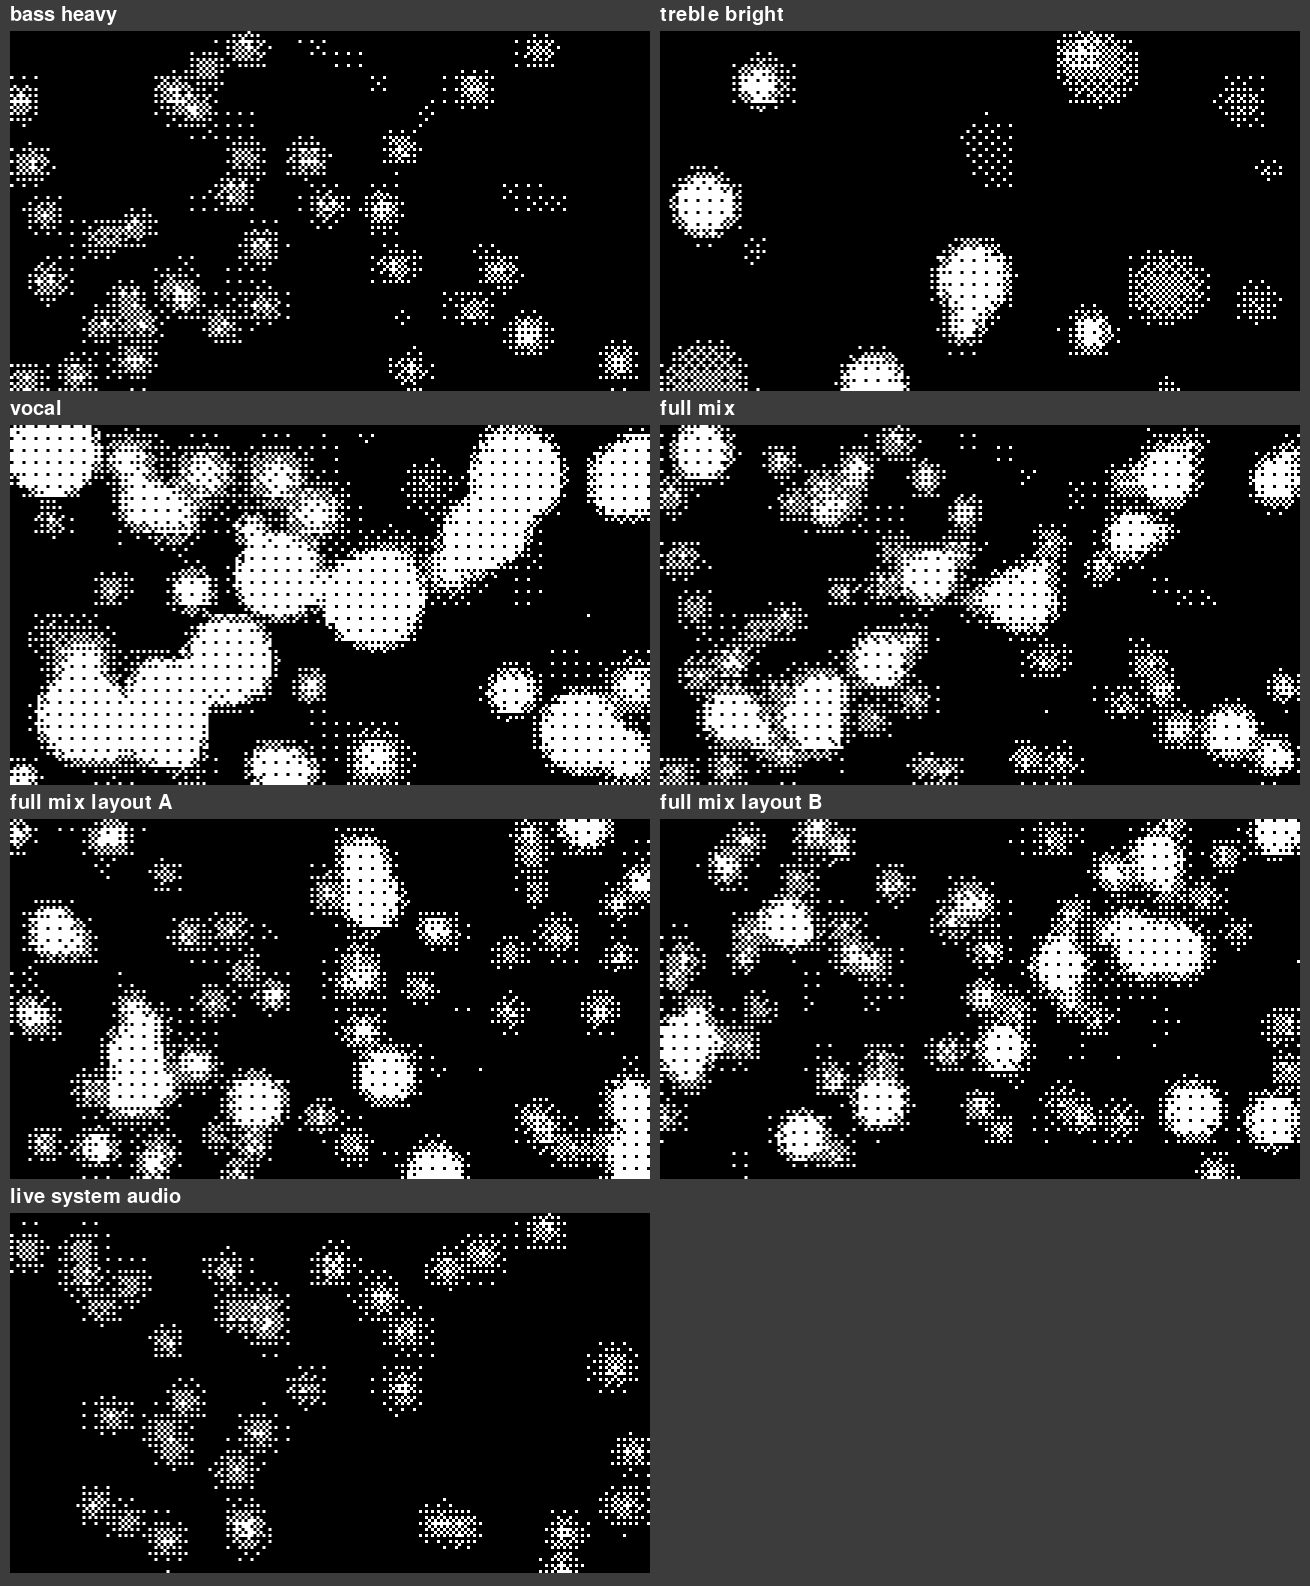
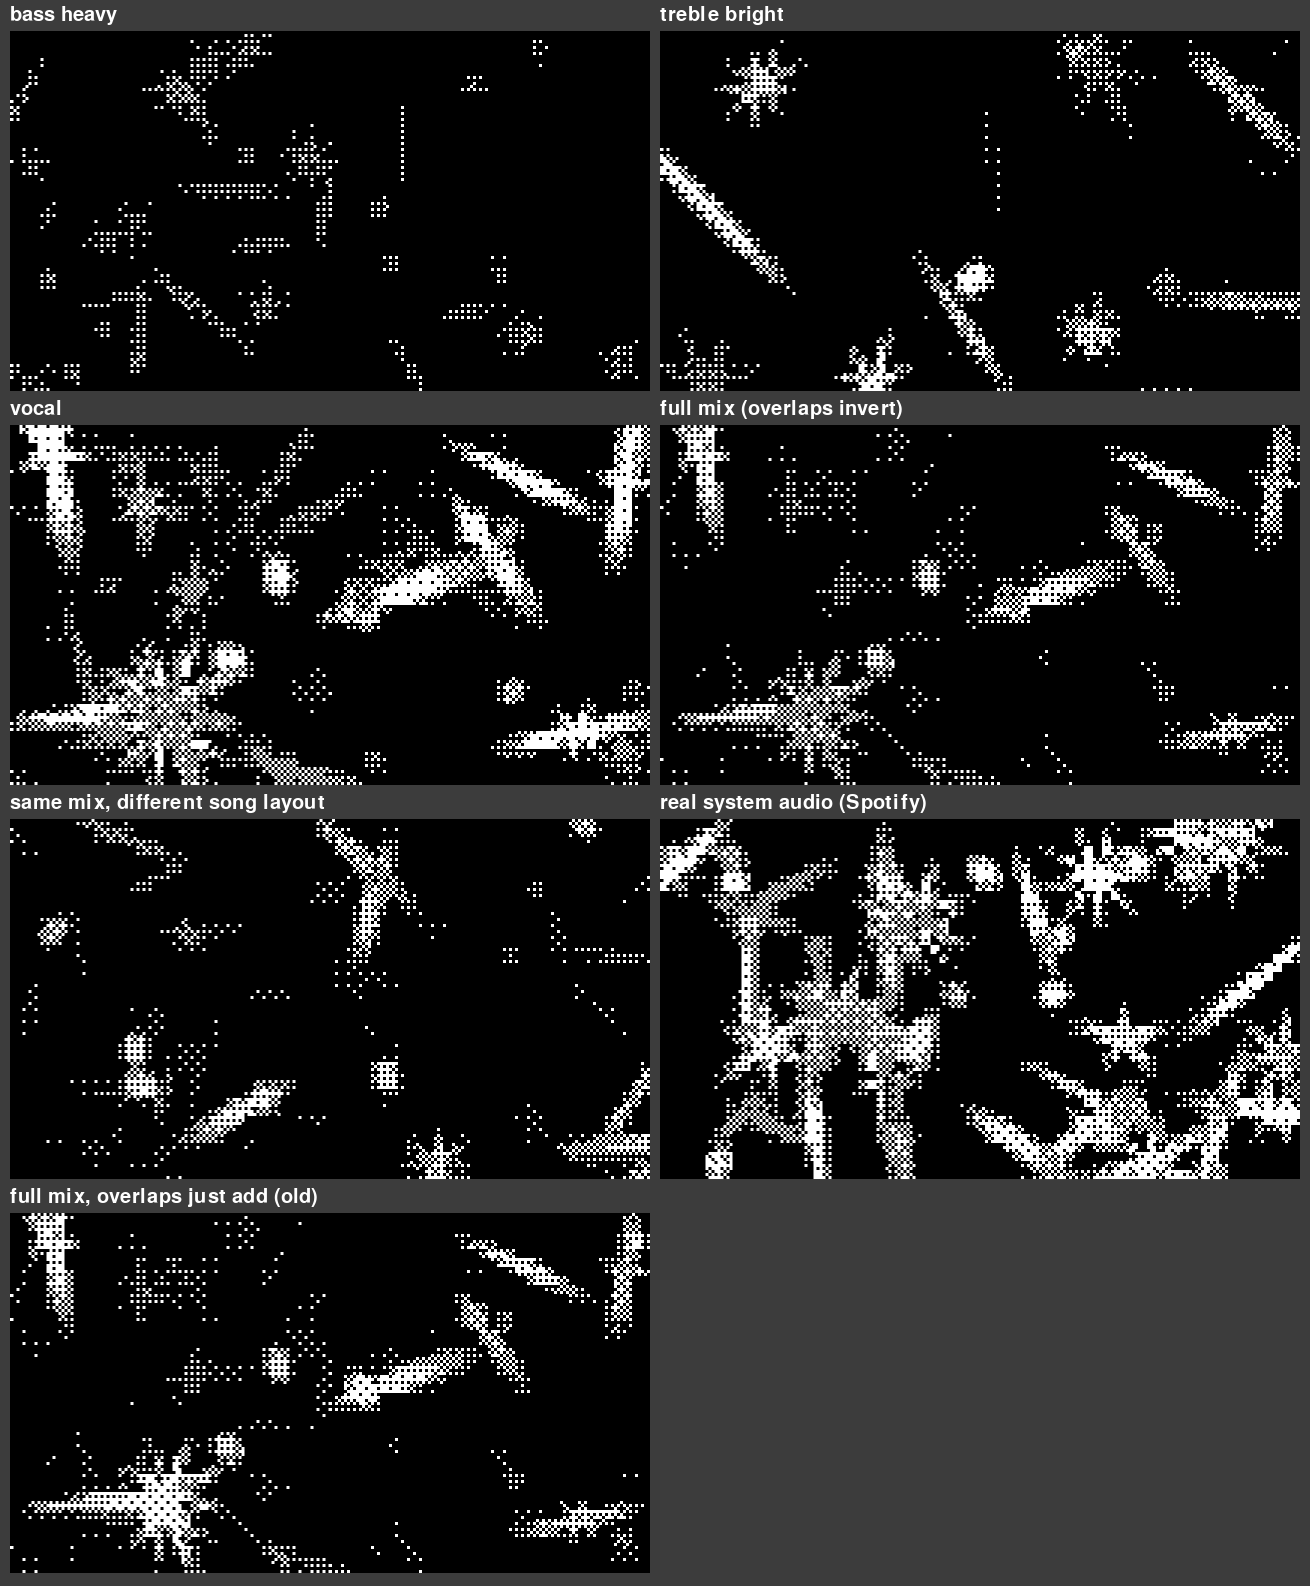
Varied shapes (blobs, spikes, strings) with inverting overlaps
Each spot gets its own shape - round blob, spiky star, long string or stretched hybrid - with its own angle and slow spin; louder means bigger and spikier. Overlapping shapes XOR within a frame so crossings show as a negative rather than a brighter gray; the fading trail is kept separate so a held note doesn't strobe. Density is tuned against real system audio: adaptive contrast gate, capped active shapes, shape size scale, float32 kernels (about 4-6 ms per frame).

diff --git a/src/visualizer/spectral_field.py b/src/visualizer/spectral_field.py
@@ -1,8 +1,12 @@
-"""The core visual mechanism: every tracked frequency bin owns a few *random*
+"""The core visual mechanism: every tracked frequency bin owns a few *random*
 spots on the canvas. A spot only lights up when its frequency actually has
 energy, so which spots glow -- and how big they get -- is a direct trace of the
 music. Nothing is laid out in frequency order: neighbouring frequencies land in
 unrelated places, so there is no left-to-right sweep, no spiral, no symmetry.
+
+Each spot also has its own shape (blob, spiky star, long string, or a stretched
+spiky hybrid) and slowly spins. Within a frame, overlapping shapes XOR -- they
+invert each other instead of just getting brighter.
 
 To keep it alive rather than static:
 
@@ -41,10 +45,16 @@ class SpectralField:
         spots_per_bin: int = 3,
         drift: float = 0.03,
         contrast: float = 0.5,
+        invert: float = 0.85,
+        max_active: int = 36,
+        size: float = 0.65,
         seed: int | None = None,
     ) -> None:
         self.num_bins = num_bins
         self.contrast = contrast
+        self.invert = invert  # 0 = overlaps just add, 1 = overlaps fully invert
+        self.max_active = max_active
+        self.size = size  # overall shape scale
         self.persistence = persistence
         self.drift = drift
         self._rng = np.random.default_rng(seed)
@@ -59,10 +69,35 @@ class SpectralField:
         # each spot drifts on its own slow, smooth loop
         self._drift_rate = self._rng.uniform(0.004, 0.016, (self._spots, 2)).astype(np.float32)
         self._drift_phase = self._rng.uniform(0, 2 * np.pi, (self._spots, 2)).astype(np.float32)
+        self._new_shapes()
 
         self.resize(cluster_w, cluster_h)
 
     # -- layout ---------------------------------------------------------------
+
+    def _new_shapes(self) -> None:
+        """Give every spot its own shape: round blob, spiky star, long string, or
+        a stretched spiky hybrid -- each with its own angle and slow spin."""
+        rng, n = self._rng, self._spots
+        kind = rng.choice(4, size=n, p=[0.28, 0.28, 0.26, 0.18])
+        self._kind = kind
+        self._elong = np.select(
+            [kind == 0, kind == 1, kind == 2],
+            [rng.uniform(1.0, 1.3, n), rng.uniform(1.0, 1.4, n), rng.uniform(2.6, 5.0, n)],
+            rng.uniform(1.8, 3.0, n),
+        ).astype(np.float32)
+        self._spikes = np.select(
+            [kind == 0, kind == 1, kind == 2],
+            [np.zeros(n), rng.integers(5, 11, n), rng.integers(0, 3, n)],
+            rng.integers(3, 7, n),
+        ).astype(np.int32)
+        self._depth = np.select(
+            [kind == 0, kind == 1, kind == 2],
+            [np.zeros(n), rng.uniform(1.3, 2.4, n), rng.uniform(0.2, 0.5, n)],
+            rng.uniform(0.8, 1.5, n),
+        ).astype(np.float32)
+        self._angle = rng.uniform(0, np.pi, n).astype(np.float32)
+        self._spin = rng.uniform(-0.012, 0.012, n).astype(np.float32)
 
     def _new_owner(self) -> np.ndarray:
         owner = np.repeat(np.arange(self.num_bins), self._spots_per_bin)
@@ -74,6 +109,7 @@ class SpectralField:
         self._target = _scatter(self._rng, self._spots)
         self._owner = self._new_owner()
         self._drift_phase = self._rng.uniform(0, 2 * np.pi, (self._spots, 2)).astype(np.float32)
+        self._new_shapes()
 
     def resize(self, cluster_w: int, cluster_h: int) -> None:
         self.cluster_w = cluster_w
@@ -91,16 +127,21 @@ class SpectralField:
     def update(self, band_levels: np.ndarray) -> np.ndarray:
         self._frame += 1
         self._pos += (self._target - self._pos) * 0.04  # glide toward the current layout
-        self.buffer *= self.persistence
 
         band_levels = self._shape(band_levels)
         levels = band_levels[self._owner] * self._weight
         xy = self.positions()
         unit = max(1.0, min(self.cluster_w, self.cluster_h) / 22.0)
-        for i in np.nonzero(levels > 0.05)[0]:
+        layer = np.zeros_like(self.buffer)  # this frame's shapes; overlaps invert inside it
+        active = np.nonzero(levels > 0.05)[0]
+        if len(active) > self.max_active:  # keep the strongest; bounds the per-frame cost
+            active = active[np.argsort(levels[active])[-self.max_active:]]
+        for i in active:
             level = float(levels[i])
-            self._splat(xy[i, 0], xy[i, 1], unit * (0.9 + 2.6 * level), level)
-        np.clip(self.buffer, 0.0, 1.0, out=self.buffer)
+            self._splat(layer, i, xy[i, 0], xy[i, 1], unit * self.size * (0.8 + 1.5 * level), level)
+        np.clip(layer, 0.0, 1.0, out=layer)
+        # the glow trail fades on its own; it is not XORed, or a held note would strobe
+        np.maximum(self.buffer * self.persistence, layer, out=self.buffer)
         return self.buffer
 
     def _shape(self, band_levels: np.ndarray) -> np.ndarray:
@@ -112,20 +153,42 @@ class SpectralField:
         ref = self._peak_ref
         if ref < 0.03:
             return band_levels * 0.0
-        gate = self.contrast * ref
+        # dense music has most bins near the peak: tighten the gate as it gets denser
+        crowded = float((band_levels > 0.5 * ref).mean())
+        gate = min(0.85, self.contrast + 1.0 * max(0.0, crowded - 0.2)) * ref
         shaped = np.clip((band_levels - gate) / max(ref - gate, 1e-6), 0.0, 1.0)
         return shaped * min(1.0, ref / 0.2)
 
-    def _splat(self, cx: float, cy: float, radius: float, level: float) -> None:
-        x0, x1 = max(0, int(cx - radius)), min(self.cluster_w, int(cx + radius) + 1)
-        y0, y1 = max(0, int(cy - radius)), min(self.cluster_h, int(cy + radius) + 1)
+    def _splat(self, layer: np.ndarray, i: int, cx: float, cy: float, radius: float, level: float) -> None:
+        """Draws spot i's shape into this frame's fresh layer. Overlaps XOR
+        (a + b - 2ab), so where two shapes cross the pixels invert instead of
+        just getting brighter."""
+        elong = float(self._elong[i])
+        depth = float(self._depth[i]) * (0.6 + 0.8 * level)  # louder -> spikier
+        reach = min(radius * elong * (1.0 + depth), 0.45 * max(self.cluster_w, self.cluster_h))
+        x0, x1 = max(0, int(cx - reach)), min(self.cluster_w, int(cx + reach) + 1)
+        y0, y1 = max(0, int(cy - reach)), min(self.cluster_h, int(cy + reach) + 1)
         if x1 <= x0 or y1 <= y0:
             return
-        dx = np.arange(x0, x1)[None, :] - cx
-        dy = np.arange(y0, y1)[:, None] - cy
-        dist = np.sqrt(dx * dx + dy * dy)
-        kernel = np.clip(1.0 - dist / max(radius, 1e-3), 0.0, 1.0) ** 1.5
-        self.buffer[y0:y1, x0:x1] += kernel * level
+        dx = (np.arange(x0, x1, dtype=np.float32)[None, :] - np.float32(cx))
+        dy = (np.arange(y0, y1, dtype=np.float32)[:, None] - np.float32(cy))
+
+        ang = float(self._angle[i]) + self._frame * float(self._spin[i])
+        u = dx * np.cos(ang) + dy * np.sin(ang)   # along the shape's axis
+        v = dy * np.cos(ang) - dx * np.sin(ang)   # across it
+        rho = np.sqrt((u / elong) ** 2 + (v * np.sqrt(elong)) ** 2) / max(radius, 1e-3)
+
+        spikes = int(self._spikes[i])
+        if spikes:
+            phi = np.arctan2(v, u)
+            edge = 1.0 + depth * np.abs(np.cos(spikes * phi / 2.0)) ** 3
+        else:
+            edge = 1.0 + depth
+        # solid core with a soft rim, so overlaps read as a clear negative
+        amp = np.clip((1.0 - rho / edge) * 1.8, 0.0, 1.0) * min(1.0, level * 1.3)
+
+        sub = layer[y0:y1, x0:x1]
+        layer[y0:y1, x0:x1] = sub + amp - 2.0 * self.invert * sub * amp
 
 
 def resize_nearest(arr: np.ndarray, out_h: int, out_w: int) -> np.ndarray:

diff --git a/tests/test_spectral_field.py b/tests/test_spectral_field.py
@@ -89,3 +89,35 @@ def test_resize_nearest_shape_and_content():
     big = resize_nearest(small, out_h=4, out_w=4)
     assert big.shape == (4, 4)
     assert set(np.unique(big)) <= {0.0, 1.0}
+
+def test_shapes_vary_between_spots():
+    field = SpectralField(num_bins=96, cluster_w=100, cluster_h=60, seed=9)
+    assert len(set(field._kind.tolist())) == 4              # blobs, spikes, strings, hybrids all present
+    assert field._elong.max() > 2.5 and field._elong.min() < 1.4   # round and stringy
+    assert field._spikes.max() >= 5 and field._spikes.min() == 0   # spiky and smooth
+    assert len(set(np.round(field._angle, 2).tolist())) > 50       # pointing every which way
+
+
+def test_reshuffle_draws_new_shapes():
+    field = SpectralField(num_bins=32, cluster_w=80, cluster_h=50, seed=1)
+    before = field._angle.copy()
+    field.reshuffle()
+    assert not np.allclose(before, field._angle)
+
+
+def test_overlaps_invert_instead_of_just_adding():
+    loud = np.full(48, 1.0, dtype=np.float32)
+    additive = SpectralField(num_bins=48, cluster_w=60, cluster_h=36, persistence=0.0, invert=0.0, seed=6)
+    negative = SpectralField(num_bins=48, cluster_w=60, cluster_h=36, persistence=0.0, invert=1.0, seed=6)
+    a, n = additive.update(loud).copy(), negative.update(loud).copy()
+    assert n.sum() < a.sum()          # crossings cancel out
+    assert ((n < a - 0.3).sum()) > 20  # and there are real inverted pixels, not rounding noise
+    assert n.min() >= 0.0 and n.max() <= 1.0
+
+
+def test_held_note_does_not_strobe():
+    field = SpectralField(num_bins=16, cluster_w=60, cluster_h=36, persistence=0.88, seed=2)
+    held = np.zeros(16, dtype=np.float32)
+    held[5] = 0.9
+    sums = [field.update(held).sum() for _ in range(30)]
+    assert max(sums[10:]) < 1.25 * min(sums[10:])   # steady, not flashing frame to frame

diff --git a/tools/render_samples.py b/tools/render_samples.py
@@ -1,4 +1,4 @@
-"""Renders headless screenshots of the visualizer for different kinds of audio.
+"""Renders headless screenshots of the visualizer for different kinds of audio.
 
     python tools/render_samples.py out_dir            # synthetic music styles
     python tools/render_samples.py out_dir --live 20  # + real system audio (Windows)
@@ -86,12 +86,12 @@ STYLES = {
 }
 
 
-def render_frames(chunks, seed: int, out_path: Path, warmup: int = 140) -> np.ndarray:
+def render_frames(chunks, seed: int, out_path: Path, warmup: int = 140, invert: float = 0.85) -> np.ndarray:
     surf = pygame.display.set_mode((W, H))
     gw, gh = W // PIXEL, H // PIXEL
     renderer = BitmapRenderer(gw, gh, W, H)
     analyzer = SpectrumAnalyzer(sample_rate=SR, num_bands=96)
-    field = SpectralField(96, gw // 3, gh // 3, seed=seed)
+    field = SpectralField(96, gw // 3, gh // 3, seed=seed, invert=invert)
     colors = grayscale_palette(1)
     levels = None
     for n, chunk in enumerate(chunks):
@@ -137,6 +137,9 @@ def main() -> None:
     mix = full_mix(4.0)
     render_frames(chunked(mix), seed=101, out_path=out / "full_mix_layout_A.png")
     render_frames(chunked(mix), seed=202, out_path=out / "full_mix_layout_B.png")
+
+    # same audio + layout, overlaps just adding (left) vs inverting (the default)
+    render_frames(chunked(mix), seed=11, out_path=out / "full_mix_additive.png", invert=0.0)
 
     if args.live:
         print(f"capturing {args.live}s of system audio ...")

diff --git a/src/visualizer/config.py b/src/visualizer/config.py
@@ -33,6 +33,7 @@ class Config:
     num_freq_points: int = 96        # how many frequency bins get their own spots on screen
     spots_per_bin: int = 3           # random spots each frequency owns
     drift: float = 0.03              # how far spots wander from home (fraction of the screen)
+    overlap_invert: float = 0.85     # where shapes overlap they invert (0 = just add, 1 = full negative)
     cluster_scale: int = 3           # cluster grid is this many dither-cells per side, coarser
     persistence: float = 0.88        # per-frame decay of the cluster energy (trailing/glow)
     decay: float = 0.85              # per-frame falloff of each frequency band's smoothed level

diff --git a/src/visualizer/main.py b/src/visualizer/main.py
@@ -91,6 +91,7 @@ def main(argv: list[str] | None = None) -> None:
         persistence=cfg.persistence,
         spots_per_bin=cfg.spots_per_bin,
         drift=cfg.drift,
+        invert=cfg.overlap_invert,
     )
 
     clock = pygame.time.Clock()

diff --git a/README.md b/README.md
@@ -1,8 +1,11 @@
-# visualizer
+# visualizer
 
 A black & white audio visualizer for whatever is playing on your computer. Every
 frequency owns a few **random** spots on a dithered bitmap grid, and a spot only
-lights up when its frequency is actually active. The layout is not a spiral, not
+lights up when its frequency is actually active. Each spot has its own shape --
+round blobs, spiky stars, long strings, spiky-and-stretched hybrids -- pointing
+every which way and slowly spinning; louder means bigger and spikier. **Where
+shapes overlap they invert** (a negative, not just a brighter gray). The layout is not a spiral, not
 sorted by pitch and not symmetric -- neighbouring frequencies land in unrelated
 places -- and the spots slowly drift, so the picture feels organic instead of like
 a meter. **Every new song draws a brand new random layout**, so no two songs look
@@ -10,8 +13,9 @@ alike. The bottom corners show the current track and the bit depth.
 
 ![samples](docs/samples.png)
 
-*Bass-heavy, treble-bright, vocal and full-mix audio (top), the same mix with two
-different random layouts, and a capture of real system audio (bottom).*
+*Bass-heavy, treble-bright, vocal and full-mix audio, the same mix with a different
+song's layout, a capture of real system audio (a quiet moment), and the same mix
+with overlaps simply adding (bottom) for comparison with the inverting default.*
 
 ## Get it running
 
@@ -48,7 +52,7 @@ click into other apps or other monitors and only closes when you close it.
 Settings are saved per user (`%APPDATA%\AudioVisualizer\config.json` on Windows,
 `~/Library/Application Support/AudioVisualizer/` on macOS). Useful options:
 `pixel_size` (chunkiness), `spots_per_bin` (how many spots each frequency owns),
-`drift` (how far spots wander), `persistence` (glow/trail), `gain` (sensitivity),
+`drift` (how far spots wander), `overlap_invert` (0 = overlaps add, 1 = full negative), `persistence` (glow/trail), `gain` (sensitivity),
 `reshuffle_on_new_song`.
 
 ## How it works
@@ -56,7 +60,7 @@ Settings are saved per user (`%APPDATA%\AudioVisualizer\config.json` on Windows,
 ```
 audio_capture.py    WASAPI loopback (Windows), input device (macOS/Linux), or a synthetic test tone
 analyzer.py         FFT -> 96 log-spaced frequency energies with attack/decay smoothing
-spectral_field.py   Random spots per frequency, drifting; contrast gate; reshuffle on new song
+spectral_field.py   Random, drifting spots per frequency with varied shapes; XOR-style overlaps; reshuffle on new song
 now_playing.py      Current track from Windows media controls (winrt), used to spot song changes
 palette.py          Black/white quantization + ordered (Bayer) dithering
 renderer.py         Low-res framebuffer -> nearest-neighbor upscale to the window
